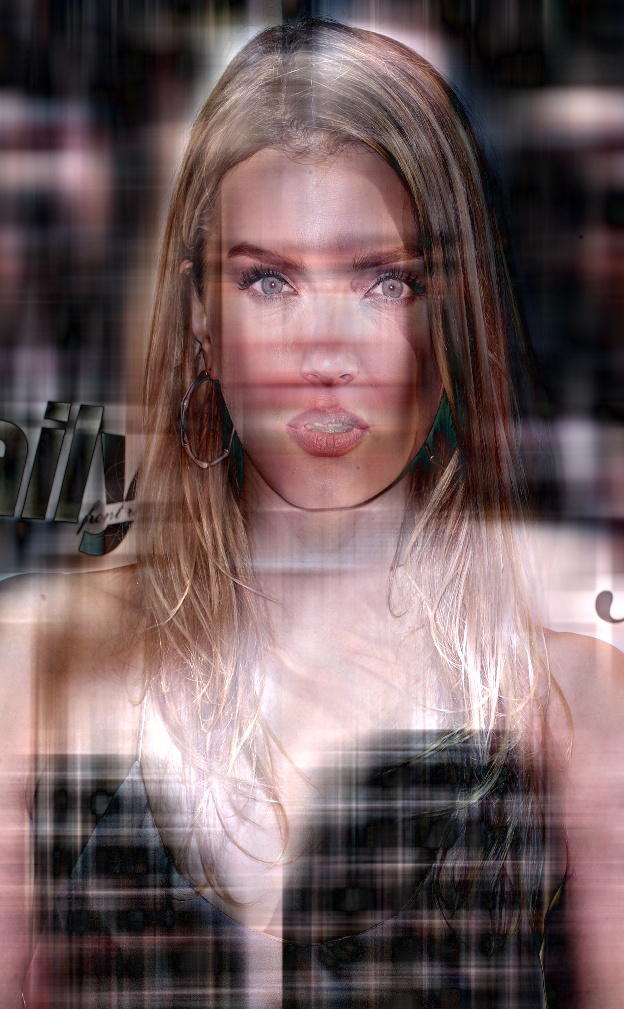
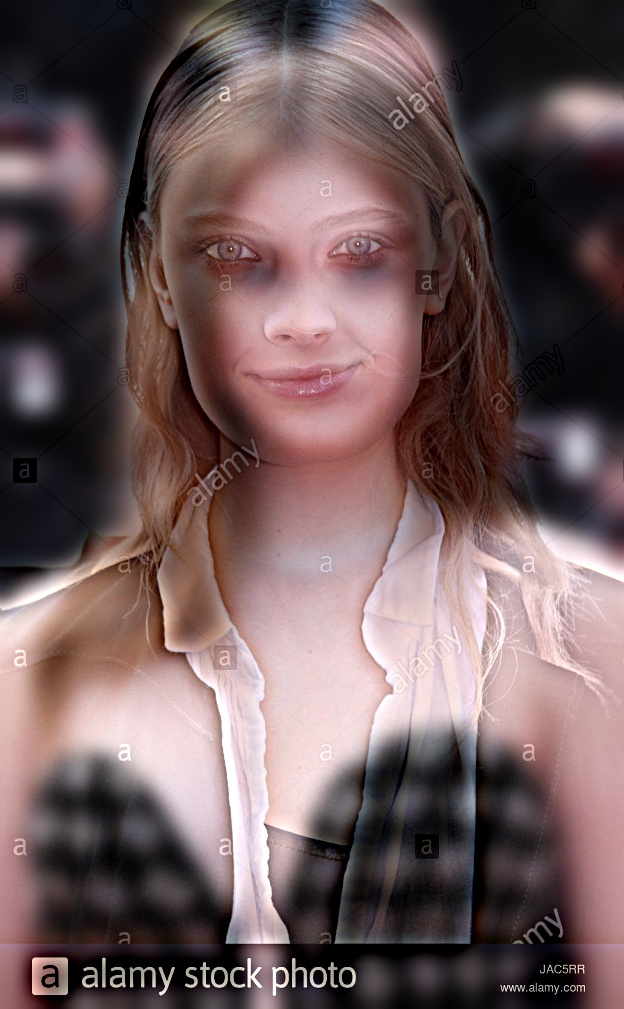
finish Gaussian

diff --git a/MAIN.py b/MAIN.py
@@ -1,20 +1,23 @@
 import cv2 as cv
 import numpy as np
-import matplotlib.pyplot as plt
-
+import math
 
 
 SRC1 = "./images/Barbara Palvin.jpg"
-SRC2 = "./images/Lily Donaldson.jpg"
-
+SRC2 = "./images/Constance Jablonski.jpg"
+OUTPUT = "./result/result.jpg"
+RADIUS = 20
+SIGMA = 10
 
 
 class MAIN():
+
+    #图片加载
     def __init__(self,src1,src2):
         self.src1 = src1
         self.src2 = src2
 
-
+    #将两张图片变换为大小一致
     def loadImage(self):
         self.img1 = cv.imread(self.src1)
         self.img2 = cv.imread(self.src2)
@@ -22,17 +25,32 @@ class MAIN():
         y = self.img1.shape[1]
         self.img2 = cv.resize(self.img2,(y,x),interpolation = cv.INTER_CUBIC)
 
-
-    def myFilter(self,sigma):
-        kernel_5x5 = np.array([
-            [1, 4, 7, 4, 1],
-            [4, 16, 26, 16, 4],
-            [7, 26, 41, 26, 7],
-            [4, 16, 26, 16, 4],
-            [1, 4, 7, 4, 1]
-        ])
+    def get_cv(self,r, sigma):
+        return 1 / (2 * math.pi * sigma ** 2) * math.exp((-r ** 2) / (2 * sigma ** 2))
 
 
+
+
+    def getFilter(self,radius,sigma):
+        window = np.zeros((radius * 2 + 1, radius * 2 + 1))
+        for i in range(-radius, radius + 1):
+            for j in range(-radius, radius + 1):
+                r = (i ** 2 + j ** 2) ** 0.5
+                window[i + radius][j + radius] = self.get_cv(r, sigma)
+        return window / np.sum(window)
+
+    def myGaussian(self,src):
+        myFilter = self.getFilter(RADIUS,SIGMA)
+        print(myFilter)
+        # trans = np.zeros(src.shape,np.uint8)
+        print(src)
+        trans = cv.filter2D(src,3,myFilter)
+        print(trans)
+        return trans
+        # cv.imwrite("result.jpg",trans)
+        # print(trans)
+        # cv.imshow("result",trans)
+        # cv.waitKey()
 
     #自定义傅里叶变换,src为待操作图像
     def myFFT(self,src):
@@ -58,27 +76,33 @@ class MAIN():
 
     #图像混合操作
     def hybridImage(self,sigma):
-        trans1 = self.myFFT(self.img1)
-        trans2 = self.myFFT(self.img2)
-        h = trans1.shape[0]
-        w = trans1.shape[1]
-
-        #中心点坐标
-        center_w = w // 2
-        center_h = h // 2
-
-        #滤波操作
-        for i in range(int(center_h - sigma / 2 * h),int(center_h + sigma / 2 * h)):
-            for j in range(int(center_w - sigma / 2 * w),int(center_w + sigma / 2 * w)):
-                trans1[i][j] = [0,0,0]
-
-        for i in range(len(trans2)):
-            for j in range(len(trans2[0])):
-                if trans1[i][j][:].all() != 0:
-                    trans2[i][j] = [0,0,0]
-        img_back = self.myIFFT(trans1 + trans2)
-        print(img_back)
-        cv.imwrite("result.jpg",img_back)
+        trans1 = self.myGaussian(self.img1)
+        trans2 = self.img2 - self.myGaussian(self.img2)
+        result = trans2 + trans1
+        cv.imwrite("result.jpg",result)
+        # trans1 = self.myFFT(self.img1)
+        # trans2 = self.myFFT(self.img2)
+        # h = trans1.shape[0]
+        # w = trans1.shape[1]
+        #
+        # #中心点坐标
+        # center_w = w // 2
+        # center_h = h // 2
+        #
+        # #滤波操作
+        # for i in range(int(center_h - sigma / 2 * h),int(center_h + sigma / 2 * h)):
+        #     for j in range(int(center_w - sigma / 2 * w),int(center_w + sigma / 2 * w)):
+        #         trans1[i][j] = [0,0,0]
+        #
+        # for i in range(len(trans2)):
+        #     for j in range(len(trans2[0])):
+        #         if trans1[i][j][:].all() != 0:
+        #             trans2[i][j] = [0,0,0]
+        #
+        # #反傅里叶变换
+        # img_back = self.myIFFT(trans1 + trans2)
+        # print(img_back)
+        # cv.imwrite(OUTPUT,img_back)
 
 
 

diff --git a/temp.py b/temp.py
@@ -1,41 +1,20 @@
+import math
 import numpy as np
 
-from PIL import Image
-
-from numpy.fft import fft, ifft
-
+def get_cv(r, sigma):
+    return 1 / (2 * math.pi * sigma ** 2) * math.exp((-r**2) / (2 * sigma ** 2))
 
 
-def filterImage(srcImage):
-
-    # 打开图像文件并获取数据
-
-    srcIm = Image.open(srcImage)
-
-    srcArray = np.fromstring(srcIm.tobytes(), dtype=np.int8)
-
-
-
-    # 傅里叶变换并滤除低频信号
-
-    result = fft(srcArray)
-
-    result = np.where(np.absolute(result)<8e3, 0, result)
-
-    # 傅里叶反变换，保留实部
-
-    result = ifft(result)
-
-    result = np.int8(np.real(result))
+def get_window():
+    # 模糊半径为 2, sigma 为 1.5
+    radius, sigma = 2, 1.5
+    window = np.zeros((radius * 2 + 1, radius * 2 + 1))
+    for i in range(-radius, radius + 1):
+        for j in range(-radius, radius + 1):
+            r = (i ** 2 + j ** 2) ** 0.5
+            window[i + radius][j + radius] = get_cv(r, sigma)
+    return window / np.sum(window)
 
 
-
-    # 转换为图像
-
-    im = Image.frombytes(srcIm.mode, srcIm.size, result)
-
-    im.show()
-
-
-
-filterImage("./images/cat.png")
+if __name__ == '__main__':
+    print(get_window())
